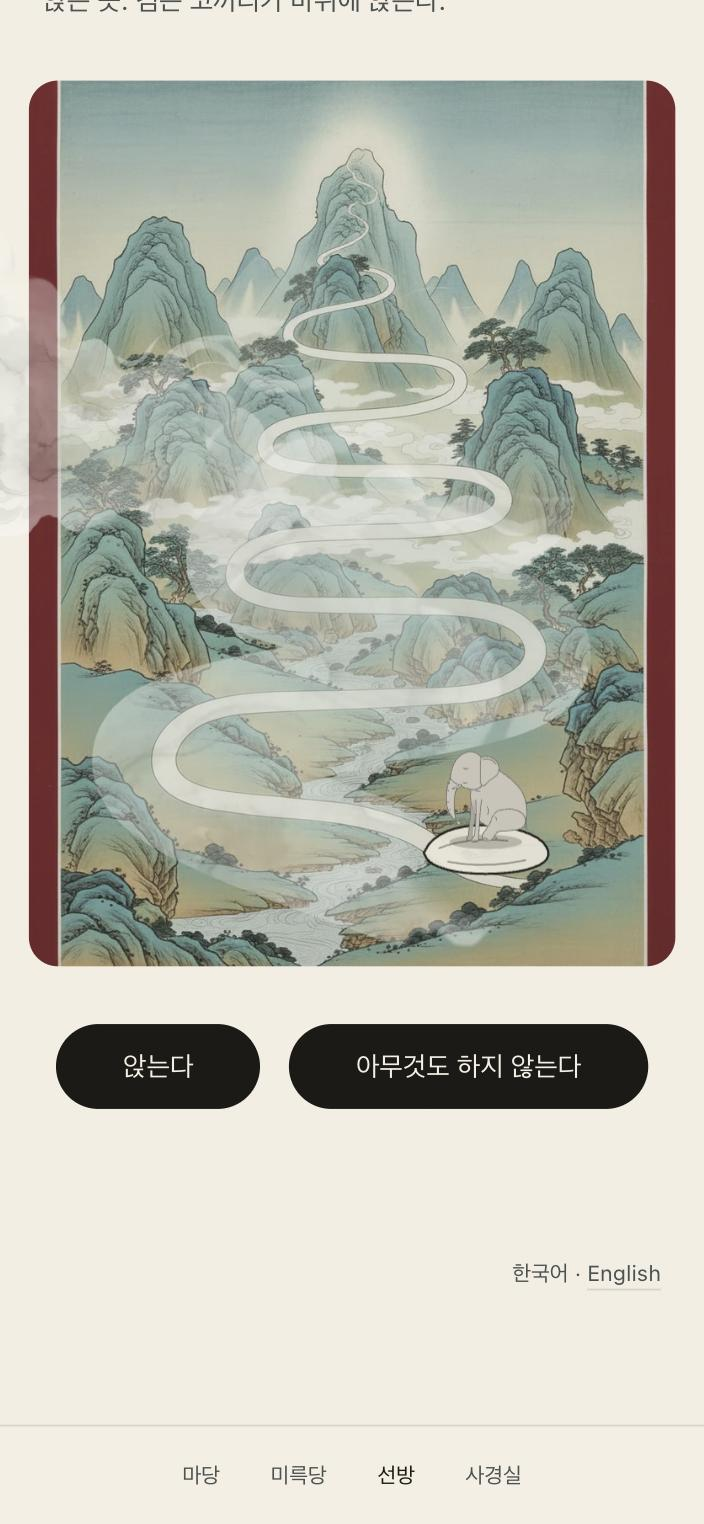
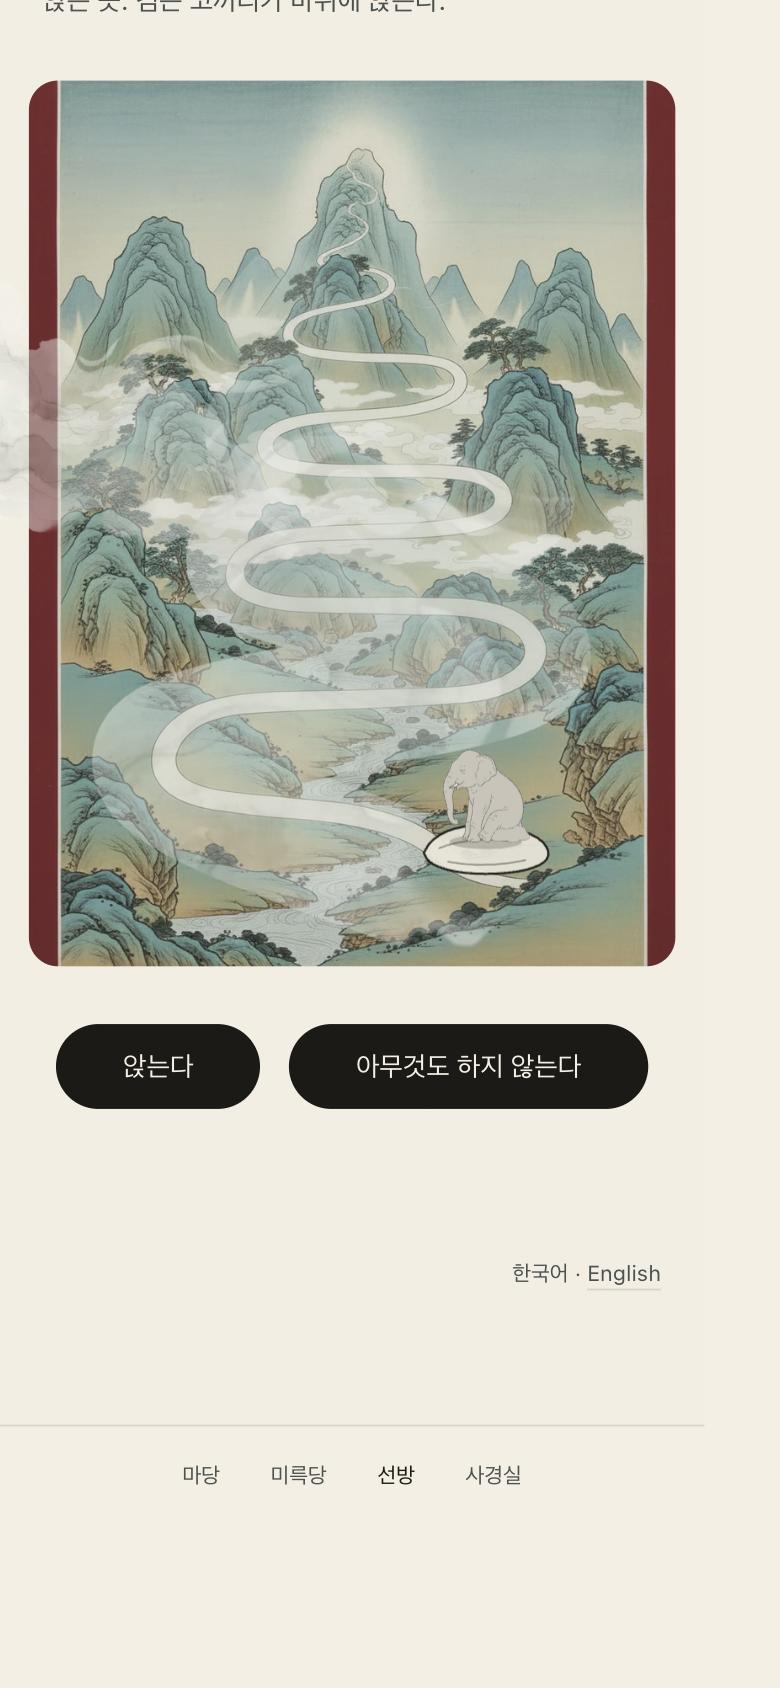
앉은 코끼리를 원본의 윤곽을 뜬 그림으로 — 무리 다섯, 귀 · 코 · 꼬리만 뒤척인다
손으로 그린 것은 원본과 모양이 달랐다(머리가 몸에 묻히고 귀가 덩어리). 원본 픽셀에서
윤곽을 뜬 docs/drawings/elephant_sitting_traced.svg 로 바꾼다.

- 그림: viewBox 250×268, 무리 다섯(body · ear · trunk · tail · tusk). 다리와 머리는
  움직이지 않으므로 body 하나에 든다. 축은 파일 안의 data-pivot 그대로.
  앱 사본에서는 출처 기록(<metadata>, 7.7KB)만 뺐다 — 그림 합계 상한(960,000)을
  넘기지 않으려고. 기록은 docs/drawings 의 원본에 그대로 있다. 39,143 바이트.
- 먹선이 stroke 가 아니라 fill-rule="evenodd" 면이라, 앉은 그림의 .e-line 을 선으로
  바꾸던 CSS 규칙을 걷었다.
- 발끝 바닥선: 틀의 비율을 250/268 로. 두 그림의 발끝이 화면에서 0.07px 안에 선다.
- 결 자물쇠를 새 규칙에 맞춘다: 무리 다섯, 몸통 · 상아에 애니메이션 없음, 귀 · 코 ·
  꼬리는 뒤척임, 크기 상한 50,000(선 코끼리 54,066 과 같은 급), path 수 검사는
  지움(면이라 수에 뜻이 없다). 「바위가 그림에 없다」는 그대로.
- docs/screens/ 의 흰빛 0.195 · 0.76 두 장을 다시 찍었다.

diff --git a/app/assets/tailwind/application.css b/app/assets/tailwind/application.css
@@ -1797,13 +1797,12 @@ input[type="text"].threshold__field {
    .elephant 에서 내려오므로 두 그림이 같이 먹는다. */
 .elephant { position: relative; }
 .elephant__art--seated {
-  position: absolute; bottom: 0; left: 50%; width: auto; height: 100%; aspect-ratio: 250 / 283;
+  position: absolute; bottom: 0; left: 50%; width: auto; height: 100%; aspect-ratio: 250 / 268;
   translate: -50% 0; opacity: 0;
 }
 .elephant__art--standing, .elephant__art--seated { transition: opacity var(--elephant-seat-time) linear; }
 .elephant--seated .elephant__art--standing { opacity: 0; }
 .elephant--seated .elephant__art--seated { opacity: 1; }
-.elephant .e-line { fill: none; stroke: var(--e-ink); }
 @media (prefers-reduced-motion: reduce) {
   .elephant__art--standing, .elephant__art--seated { transition: none; }
 }
@@ -1872,12 +1871,13 @@ input[type="text"].threshold__field {
   .elephant--restless .elephant__body,
   .elephant--restless .elephant__tusk { animation: elephant-stir-shift var(--restless-period-body) ease-in-out infinite; }
 }
-/* 앉은 뒤에는 귀 · 꼬리 · 코만 뒤척인다. 다리 · 머리 · 몸통 · 상아는 움직이지 않는다 — 귀는
+/* 앉은 뒤에는 귀 · 꼬리 · 코만 뒤척인다. 앉은 그림은 다리와 머리를 몸통 하나에 담았고, 몸통과
+   상아는 움직이지 않는다. 코와 꼬리는 위의 규칙을 그대로 받고, 귀(선 그림에는 머리 안에 있다)는
    머리의 주기를 빌려 쓴다(주기 다섯은 그대로, 넷 초 아래로 내려가지 않는다). */
 @media (prefers-reduced-motion: no-preference) {
   .elephant--restless .elephant__art--seated .elephant__ear { animation: elephant-stir-head var(--restless-period-head) ease-in-out infinite; }
 }
-.elephant .elephant__art--seated :is(.elephant__leg-fr, .elephant__leg-fl, .elephant__leg-bl, .elephant__leg-br, .elephant__head, .elephant__body, .elephant__tusk) { animation: none; }
+.elephant .elephant__art--seated :is(.elephant__body, .elephant__tusk) { animation: none; }
 @keyframes elephant-stir-head {
   0%, 100% { rotate: calc(var(--restless, 1) * var(--elephant-stir-head)); }
   50% { rotate: calc(-1 * var(--restless, 1) * var(--elephant-stir-head)); }

diff --git a/test/locks/form/elephant_seated_test.rb b/test/locks/form/elephant_seated_test.rb
@@ -1,40 +1,42 @@
 # This app is a raft. — 이 앱도 뗏목이다.
 #
-# 앉은 코끼리의 결 — 바위 위의 몸(§2). docs/drawings/elephant_sitting.png 를 보고 손으로 그린 그림이다.
-# 선 그림과 같은 무리 아홉(머리 안에 귀가 하나 더), 무리마다 축, 색은 변수만, 바위는 그리지 않는다.
-# 걸어와 바위에 닿으면 선 그림이 앉은 그림으로 교차 페이드하고(3초 넘게), 앉은 뒤 뒤척이는 것은
-# 귀 · 꼬리 · 코뿐이다 — 다리는 움직이지 않는다.
+# 앉은 코끼리의 결 — 바위 위의 몸(§2). docs/drawings/elephant_sitting.png 의 윤곽을 뜬 그림이다.
+# 무리는 다섯(몸통 · 귀 · 코 · 꼬리 · 상아) — 다리와 머리는 움직이지 않으므로 몸통 하나에 든다.
+# 무리마다 축, 색은 변수만, 바위는 그리지 않는다. 걸어와 바위에 닿으면 선 그림이 앉은 그림으로
+# 교차 페이드하고(3초 넘게), 앉은 뒤 뒤척이는 것은 귀 · 꼬리 · 코뿐이다.
 require "test_helper"
 
 class ElephantSeatedTest < ActionDispatch::IntegrationTest
   SVG = Rails.root.join("app/assets/images/elephant_sitting.svg")
   CSS = Rails.root.join("app/assets/tailwind/application.css")
-  NINE = %w[body tail leg-br leg-bl leg-fr leg-fl trunk head tusk].freeze
-  LEGS = %w[leg-fr leg-fl leg-bl leg-br].freeze
+  FIVE = %w[body ear trunk tail tusk].freeze
+  STILL = %w[body tusk].freeze
+  STIRRING = %w[ear trunk tail].freeze
 
-  test "앉은 코끼리는 아홉 그룹이 있고 다리 그룹에 애니메이션이 없다" do
+  test "앉은 코끼리는 무리 다섯이 있고 몸통 · 상아에 애니메이션이 없다" do
     svg = Nokogiri::XML(SVG.read).remove_namespaces!
-    groups = svg.css("g[class^='elephant__']").map { |g| g["class"].delete_prefix("elephant__") } - [ "parts", "ear" ]
-    assert_equal NINE, groups, "무리 아홉이 그 이름 그 차례로 있지 않다"
-    assert_equal 1, svg.css("g.elephant__head g.elephant__ear").size, "귀가 머리 안에 없다"
+    groups = svg.css("g[class^='elephant__']").map { |g| g["class"].delete_prefix("elephant__") } - [ "parts" ]
+    assert_equal FIVE, groups, "무리 다섯이 그 이름 그 차례로 있지 않다"
 
     svg.css("g[data-pivot]").each do |group|
       x, y = group["data-pivot"].split(",")
       assert_equal "transform-origin: #{x}px #{y}px", group["style"], "#{group["class"]} 의 축이 data-pivot 과 다르다"
     end
+    STIRRING.each { |part| assert svg.at_css("g.elephant__#{part}[data-pivot]"), "#{part} 에 축이 없다" }
 
     css = CSS.read
-    LEGS.each do |leg|
-      css.scan(/([^{}]*\.elephant__#{leg}[^{}]*)\{([^{}]*)\}/).each do |selector, body|
-        next unless body.include?("animation") && !body.include?("animation: none")
-
-        assert_no_match(/elephant__art--seated/, selector, "앉은 코끼리의 #{leg} 에 움직임이 걸린다")
+    STILL.each do |part|
+      css.scan(/([^{}]*\.elephant__art--seated[^{}]*\.elephant__#{part}[^{}]*)\{([^{}]*)\}/).each do |selector, body|
+        assert_no_match(/animation:(?! none)/, body, "앉은 코끼리의 #{part} 에 움직임이 걸린다 — #{selector.strip}")
       end
     end
-    assert_match(/\.elephant \.elephant__art--seated :is\(\.elephant__leg-fr, \.elephant__leg-fl, \.elephant__leg-bl, \.elephant__leg-br, [^)]*\) \{ animation: none; \}/, css,
-      "앉은 코끼리의 다리가 선 코끼리의 뒤척임을 물려받는다")
+    assert_match(/\.elephant \.elephant__art--seated :is\(\.elephant__body, \.elephant__tusk\) \{ animation: none; \}/, css,
+      "앉은 코끼리의 몸통 · 상아가 선 코끼리의 뒤척임을 물려받는다")
     assert_match(/\.elephant--restless \.elephant__art--seated \.elephant__ear \{ animation: elephant-stir-head var\(--restless-period-head\)/, css,
       "앉은 뒤 귀가 뒤척이지 않는다")
+    %w[trunk tail].each do |part|
+      assert_match(/\.elephant--restless \.elephant__#{part} \{ animation: elephant-stir-#{part} /, css, "앉은 뒤 #{part} 가 뒤척이지 않는다")
+    end
   end
 
   test "교차 페이드는 3초 이상이고, 움직임을 줄이면 바로 바뀐다" do
@@ -49,14 +51,14 @@ class ElephantSeatedTest < ActionDispatch::IntegrationTest
     assert_match(/prefers-reduced-motion: reduce\) \{\s*\.elephant__art--standing, \.elephant__art--seated \{ transition: none; \}/, css)
   end
 
-  test "손으로 그린 그림이다 — 서른 path 안쪽, 이만 바이트 이하, 색은 변수만, 바위는 없다" do
+  test "윤곽을 뜬 그림이다 — 오만 바이트 이하, 색은 변수만, 바위는 없다" do
     source = SVG.read
 
-    assert_operator source.bytesize, :<=, 20_000, "그림이 #{source.bytesize} 바이트다"
-    assert_operator source.scan("<path").size, :<=, 30, "path 가 서른을 넘는다 — 추적(trace)한 그림이다"
+    assert_operator source.bytesize, :<=, 50_000, "그림이 #{source.bytesize} 바이트다"
     assert_no_match(/#\h{3,6}\b|rgb\(|<image|base64/, source, "그림에 색값이나 래스터가 들어 있다")
     assert_no_match(/rock|바위/i, source, "그림에 바위를 그렸다 — 바위는 배경의 것이다")
-    assert_match(/viewBox="0 0 250 283"/, source)
+    assert_match(/viewBox="0 0 250 268"/, source)
+    assert_match(%r{aspect-ratio: 250 / 268;}, CSS.read, "앉은 그림의 틀이 viewBox 와 달라 발끝이 바닥선에서 뜬다")
   end
 
   test "선방에서는 두 그림이 같은 자리에 겹치고, 앉는 중에는 처음부터 앉아 있다" do

diff --git a/app/helpers/elephant_helper.rb b/app/helpers/elephant_helper.rb
@@ -13,8 +13,9 @@
 #     못하지만 사용자 지정 속성은 상속되어 넘어간다 — 색이 그렇게 내려간다.
 module ElephantHelper
   PARTS = Rails.root.join("app/assets/images/elephant_parts.svg")
-  # 앉은 코끼리 — 바위 위의 몸. docs/drawings/elephant_sitting.png 를 보고 손으로 그린 그림이다.
-  # 무리 이름 아홉은 선 그림과 같고, 머리 안에 귀(ear)가 하나 더 있다. 뒤척이는 것은 귀 · 꼬리 · 코뿐.
+  # 앉은 코끼리 — 바위 위의 몸. docs/drawings/elephant_sitting.png 의 윤곽을 뜬 그림이다.
+  # 무리는 다섯(몸통 · 귀 · 코 · 꼬리 · 상아) — 다리와 머리는 움직이지 않으므로 몸통에 든다.
+  # 뒤척이는 것은 귀 · 꼬리 · 코뿐.
   SEATED = Rails.root.join("app/assets/images/elephant_sitting.svg")
   DEFS_ID = "elephant-parts"
 
